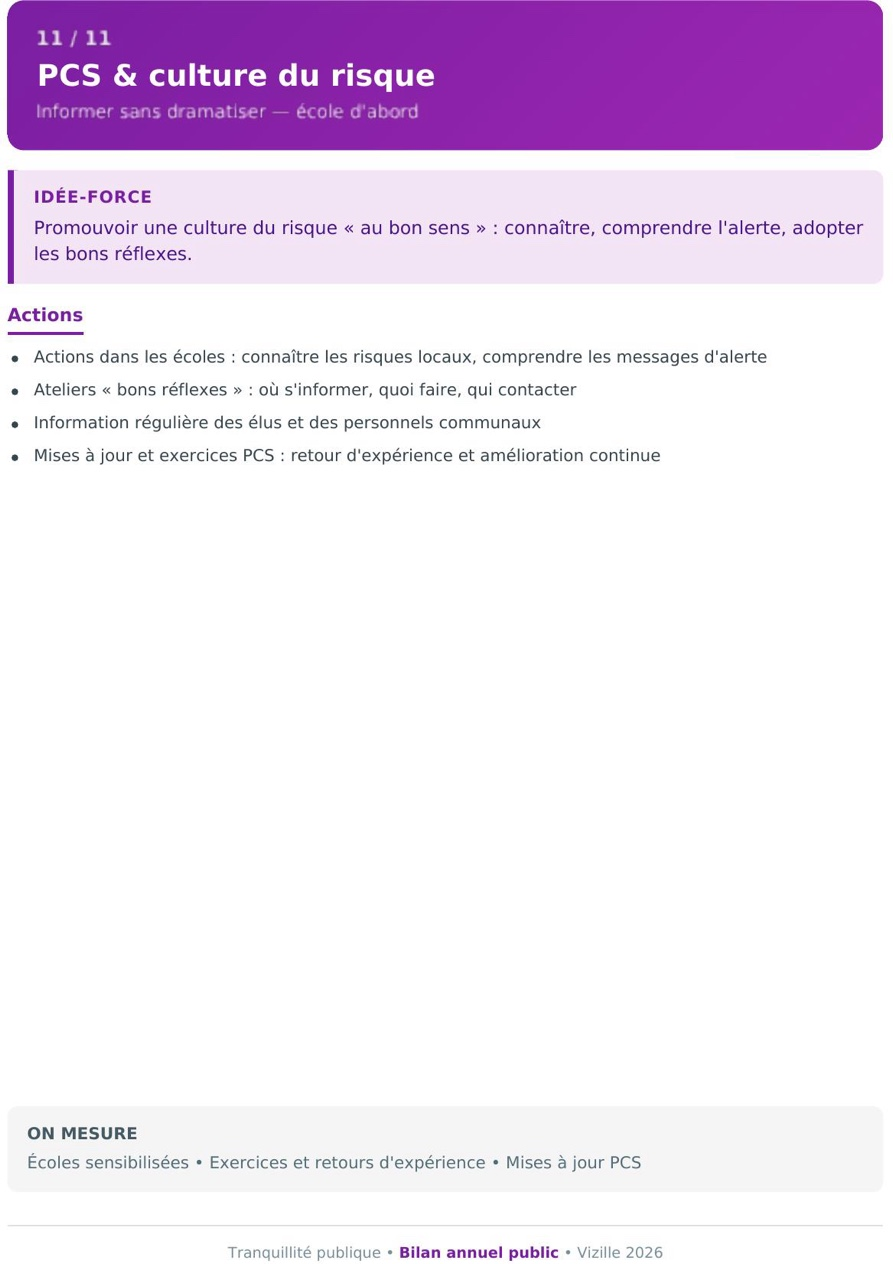
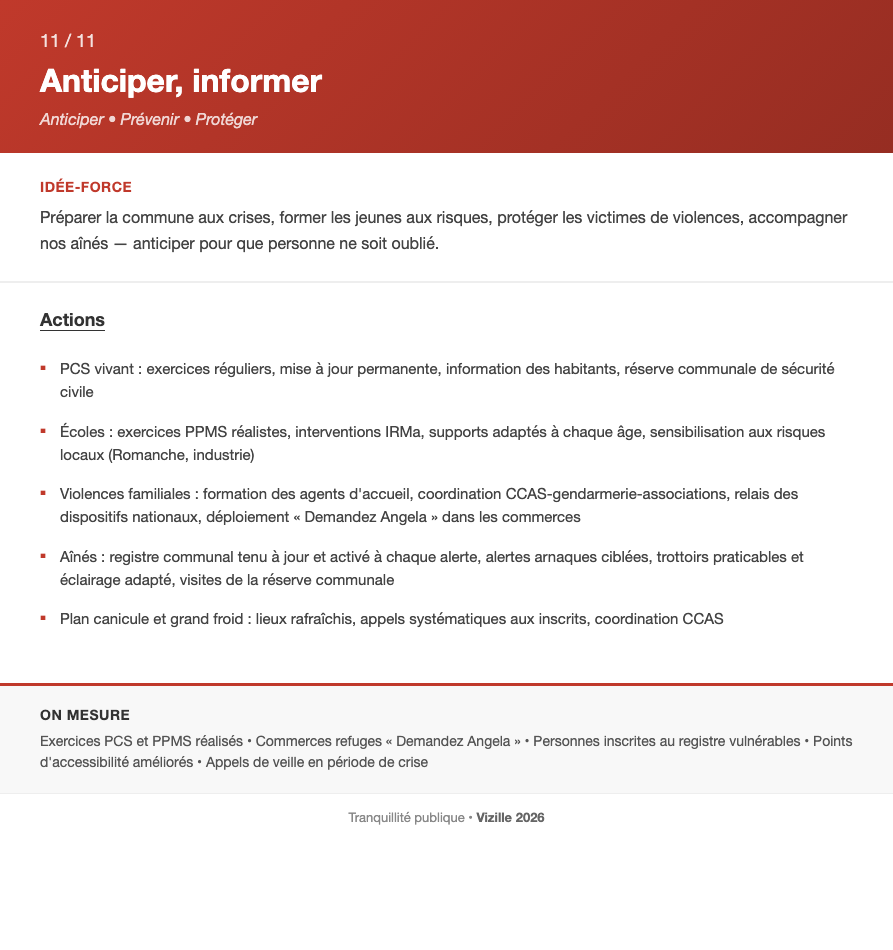
Ajouter vue Tranquillité 4 axes, refonte fiche objectif 11, tri alphabétique thèmes
- Vue graphique Tranquillité publique en 4 axes avec objectifs cliquables
- Bandeau transversal : liens avec Transition écologique, Mobilités, Travaux, Action sociale, Enfance
- Fiche objectif 211 renommée "Anticiper, informer" avec 5 actions (PCS, écoles, violences, aînés, canicule)
- Image tranquillite_11.png régénérée avec le nouveau contenu complet
- Compteur intelligent par thème (axes/objectifs/engagements)
- Tri alphabétique des thèmes sur la page projet
- Fix benefices string→array (Transition écologique)

diff --git a/projet.html b/projet.html
@@ -88,6 +88,153 @@
         }
         .engagement-item h5 { margin: 0 0 0.3rem 0; color: var(--bleu-vizille); font-size: 1rem; }
         .engagement-item p { margin: 0; color: var(--gris-texte); line-height: 1.5; font-size: 0.95rem; }
+
+        /* === VUE TRANQUILLITÉ PUBLIQUE — 4 AXES === */
+        .tranq-container {
+            max-width: 1100px;
+            margin: 0 auto;
+            padding: 0 1rem;
+        }
+        .tranq-banner {
+            background: linear-gradient(135deg, #2c3e50 0%, #1a252f 100%);
+            color: white;
+            padding: 2rem 2.5rem;
+            border-radius: 16px;
+            text-align: center;
+            margin-bottom: 1.5rem;
+            box-shadow: 0 6px 24px rgba(44, 62, 80, 0.3);
+        }
+        .tranq-banner h2 {
+            font-family: 'Playfair Display', serif;
+            font-size: 1.6rem;
+            margin: 0 0 0.5rem;
+        }
+        .tranq-banner .tranq-subtitle {
+            font-size: 1rem;
+            opacity: 0.9;
+            margin: 0 0 1rem;
+        }
+        .tranq-banner .tranq-intro {
+            font-size: 0.9rem;
+            opacity: 0.8;
+            line-height: 1.6;
+            max-width: 800px;
+            margin: 0 auto;
+        }
+        .tranq-axes-grid {
+            display: grid;
+            grid-template-columns: repeat(2, 1fr);
+            gap: 1.5rem;
+            margin-bottom: 2rem;
+        }
+        .tranq-axe-card {
+            background: white;
+            border-radius: 16px;
+            overflow: hidden;
+            box-shadow: 0 4px 20px rgba(0, 0, 0, 0.1);
+            transition: transform 0.3s, box-shadow 0.3s;
+        }
+        .tranq-axe-card:hover {
+            transform: translateY(-4px);
+            box-shadow: 0 8px 32px rgba(0, 0, 0, 0.15);
+        }
+        .tranq-axe-header {
+            padding: 1.25rem 1.5rem;
+            color: white;
+            position: relative;
+            overflow: hidden;
+        }
+        .tranq-axe-header::after {
+            content: '';
+            position: absolute;
+            top: -50%; right: -50%;
+            width: 100%; height: 200%;
+            background: radial-gradient(circle, rgba(255,255,255,0.12) 0%, transparent 70%);
+            pointer-events: none;
+        }
+        .tranq-axe-header h3 {
+            font-family: 'Playfair Display', serif;
+            font-size: 1.15rem;
+            margin: 0 0 0.3rem;
+            line-height: 1.3;
+        }
+        .tranq-axe-header .axe-accroche {
+            font-size: 0.85rem;
+            opacity: 0.9;
+            line-height: 1.4;
+            margin: 0;
+        }
+        .tranq-axe-body {
+            padding: 1.25rem 1.5rem;
+        }
+        .tranq-objectif-btn {
+            display: flex;
+            align-items: flex-start;
+            gap: 0.75rem;
+            width: 100%;
+            padding: 0.85rem 1rem;
+            margin-bottom: 0.6rem;
+            background: #f8f9fa;
+            border: 2px solid #eee;
+            border-radius: 12px;
+            cursor: pointer;
+            transition: all 0.2s;
+            text-align: left;
+            font-family: inherit;
+            font-size: 0.9rem;
+        }
+        .tranq-objectif-btn:hover {
+            border-color: var(--or, #c9a227);
+            background: #fffdf5;
+            transform: translateX(4px);
+        }
+        .tranq-objectif-btn .obj-numero {
+            display: flex;
+            align-items: center;
+            justify-content: center;
+            min-width: 32px;
+            height: 32px;
+            border-radius: 50%;
+            color: white;
+            font-weight: 700;
+            font-size: 0.85rem;
+            flex-shrink: 0;
+        }
+        .tranq-objectif-btn .obj-content {
+            flex: 1;
+        }
+        .tranq-objectif-btn .obj-titre {
+            font-weight: 600;
+            color: #2c3e50;
+            line-height: 1.3;
+            margin-bottom: 0.2rem;
+        }
+        .tranq-objectif-btn .obj-resume {
+            font-size: 0.8rem;
+            color: #7f8c8d;
+            line-height: 1.3;
+        }
+        .tranq-objectif-btn .obj-arrow {
+            color: var(--or, #c9a227);
+            font-size: 1.1rem;
+            align-self: center;
+            opacity: 0;
+            transition: opacity 0.2s;
+        }
+        .tranq-objectif-btn:hover .obj-arrow {
+            opacity: 1;
+        }
+        @media (max-width: 768px) {
+            .tranq-axes-grid {
+                grid-template-columns: 1fr;
+            }
+            .tranq-banner {
+                padding: 1.5rem;
+            }
+            .tranq-banner h2 {
+                font-size: 1.3rem;
+            }
+        }
     </style>
 </head>
 <body>
@@ -514,8 +661,8 @@ function initializeFilters() {
         });
     });
 
-    // Trier les thèmes par nombre de projets (décroissant)
-    const sortedThemes = Object.keys(themeCounts).sort((a, b) => themeCounts[b] - themeCounts[a]);
+    // Trier les thèmes par ordre alphabétique
+    const sortedThemes = Object.keys(themeCounts).sort((a, b) => a.localeCompare(b, 'fr'));
 
     let html = '';
 
@@ -688,8 +835,14 @@ function renderCurrentView() {
         return;
     }
 
-    // Vue flip cards pour tout thème sélectionné
+    // Vue spéciale Tranquillité publique en 4 axes
     const selectedTheme = document.getElementById('filter-theme')?.value;
+    if (currentView === 'cards' && selectedTheme === 'Tranquillité publique') {
+        renderTranquilliteView();
+        return;
+    }
+
+    // Vue flip cards pour tout autre thème sélectionné
     if (currentView === 'cards' && selectedTheme) {
         renderFlipCardsView(selectedTheme);
         return;
@@ -881,6 +1034,111 @@ function buildFlipCard(projet, color, badge) {
     `;
 }
 
+// ===== VUE TRANQUILLITÉ PUBLIQUE — 4 AXES =====
+function renderTranquilliteView() {
+    const axesConfig = [
+        {
+            num: 1,
+            titre: "Être présent et visible",
+            icon: "👁",
+            color: "#2c3e50",
+            accroche: "Présence humaine, aménagement, vidéoprotection — trois dimensions qui se renforcent mutuellement."
+        },
+        {
+            num: 2,
+            titre: "Prévenir et apaiser",
+            icon: "🤝",
+            color: "#e67e22",
+            accroche: "Agir sur les causes des tensions, pas seulement sur leurs manifestations. Intervenir avant la crise."
+        },
+        {
+            num: 3,
+            titre: "Faire ensemble et informer",
+            icon: "🏘",
+            color: "#27ae60",
+            accroche: "La tranquillité se construit avec les habitants et les partenaires, dans la transparence."
+        },
+        {
+            num: 4,
+            titre: "Anticiper et protéger les plus vulnérables",
+            icon: "🛡",
+            color: "#c0392b",
+            accroche: "Préparer la commune aux crises, former les jeunes aux risques, protéger les victimes de violences, accompagner nos aînés — personne n'est oublié."
+        }
+    ];
+
+    // Récupérer les projets Tranquillité
+    const projets = filteredData.filter(p => projectHasTheme(p, 'Tranquillité publique'));
+
+    let html = '<div class="tranq-container" id="view-flip">';
+
+    // Bandeau titre
+    html += `
+        <div class="tranq-banner">
+            <h2>🛡 Tranquillité publique</h2>
+            <p class="tranq-subtitle">Bien vivre ensemble, en confiance</p>
+            <p class="tranq-subtitle" style="font-size: 0.95rem; font-weight: 600; opacity: 1;">
+                4 axes structurants • ${projets.length} objectifs opérationnels
+            </p>
+            <p class="tranq-intro">
+                La tranquillité publique n'est pas l'affaire d'un seul service ou d'un seul élu.
+                Elle fédère toutes les énergies : élus, services municipaux, partenaires institutionnels et citoyens.
+                Éclairage public et transition écologique, aménagements de circulation et mobilités,
+                action sociale et protection des aînés, prévention en milieu scolaire —
+                chaque objectif est transversal et mobilise plusieurs thématiques du projet communal.
+                C'est cette approche globale qui fait notre force.
+            </p>
+            <p class="tranq-passerelles" style="margin-top: 1rem; font-size: 0.85rem; opacity: 0.75; letter-spacing: 0.5px;">
+                🌿 Transition écologique • 🚲 Mobilités • 🏗 Travaux & urbanisme • 🤝 Action sociale • 👶 Enfance/Jeunesse
+            </p>
+        </div>
+    `;
+
+    // Grille des 4 axes
+    html += '<div class="tranq-axes-grid">';
+
+    axesConfig.forEach(axe => {
+        const axeProjets = projets.filter(p => p.axe === axe.num).sort((a, b) => (a.id || 0) - (b.id || 0));
+        const darkerColor = adjustColor(axe.color, -25);
+
+        html += `
+            <div class="tranq-axe-card">
+                <div class="tranq-axe-header" style="background: linear-gradient(135deg, ${axe.color} 0%, ${darkerColor} 100%);">
+                    <h3>${axe.icon} Axe ${axe.num} — ${axe.titre}</h3>
+                    <p class="axe-accroche">${axe.accroche}</p>
+                </div>
+                <div class="tranq-axe-body">
+        `;
+
+        axeProjets.forEach(p => {
+            const cleanTitle = p.titre.replace(/^Objectif \d+ - /, '');
+            const numero = p.numero ? p.numero.split('/')[0] : p.id;
+            html += `
+                <button class="tranq-objectif-btn" onclick="openProjectModal(${p.id})">
+                    <span class="obj-numero" style="background: ${axe.color};">${numero}</span>
+                    <div class="obj-content">
+                        <div class="obj-titre">${cleanTitle}</div>
+                        <div class="obj-resume">${p.resume || ''}</div>
+                    </div>
+                    <span class="obj-arrow">→</span>
+                </button>
+            `;
+        });
+
+        html += `
+                </div>
+            </div>
+        `;
+    });
+
+    html += '</div>'; // fin tranq-axes-grid
+    html += '</div>'; // fin tranq-container
+
+    // Insérer dans la section résultats
+    const resultsSection = document.getElementById('results-section');
+    resultsSection.insertAdjacentHTML('beforeend', html);
+}
+
 function renderConcertationView() {
     const container = document.getElementById('view-concertation');
     container.classList.remove('hidden');
@@ -977,13 +1235,28 @@ function renderThemesView() {
         }).join('');
         const plusCount = projets.length > 3 ? `<li class="plus-count">+ ${projets.length - 3} autre${projets.length - 3 > 1 ? 's' : ''}...</li>` : '';
 
+        // Compteur intelligent par thème
+        let countLabel;
+        if (theme === 'Tranquillité publique') {
+            const nbAxes = new Set(projets.map(p => p.axe).filter(Boolean)).size;
+            countLabel = `${nbAxes} axes • ${count} objectifs`;
+        } else {
+            const nbObj = projets.filter(p => p.type === 'objectif').length;
+            const nbEng = projets.filter(p => p.type === 'engagement').length;
+            if (nbObj > 0 && nbEng > 0) {
+                countLabel = `${nbObj} objectif${nbObj > 1 ? 's' : ''} • ${nbEng} engagement${nbEng > 1 ? 's' : ''}`;
+            } else {
+                countLabel = `${count} engagement${count > 1 ? 's' : ''}`;
+            }
+        }
+
         html += `
             <div class="theme-card" onclick="filterByTheme('${theme}')" style="border-left: 5px solid ${config.color}">
                 <div class="theme-header" style="background: linear-gradient(135deg, ${config.color} 0%, ${adjustColor(config.color, -20)} 100%)">
                     <span class="theme-icon">${config.icon}</span>
                     <div class="theme-info">
                         <h3>${theme}</h3>
-                        <span class="count">${count} engagement${count > 1 ? 's' : ''}</span>
+                        <span class="count">${countLabel}</span>
                     </div>
                 </div>
                 <div class="theme-preview">
